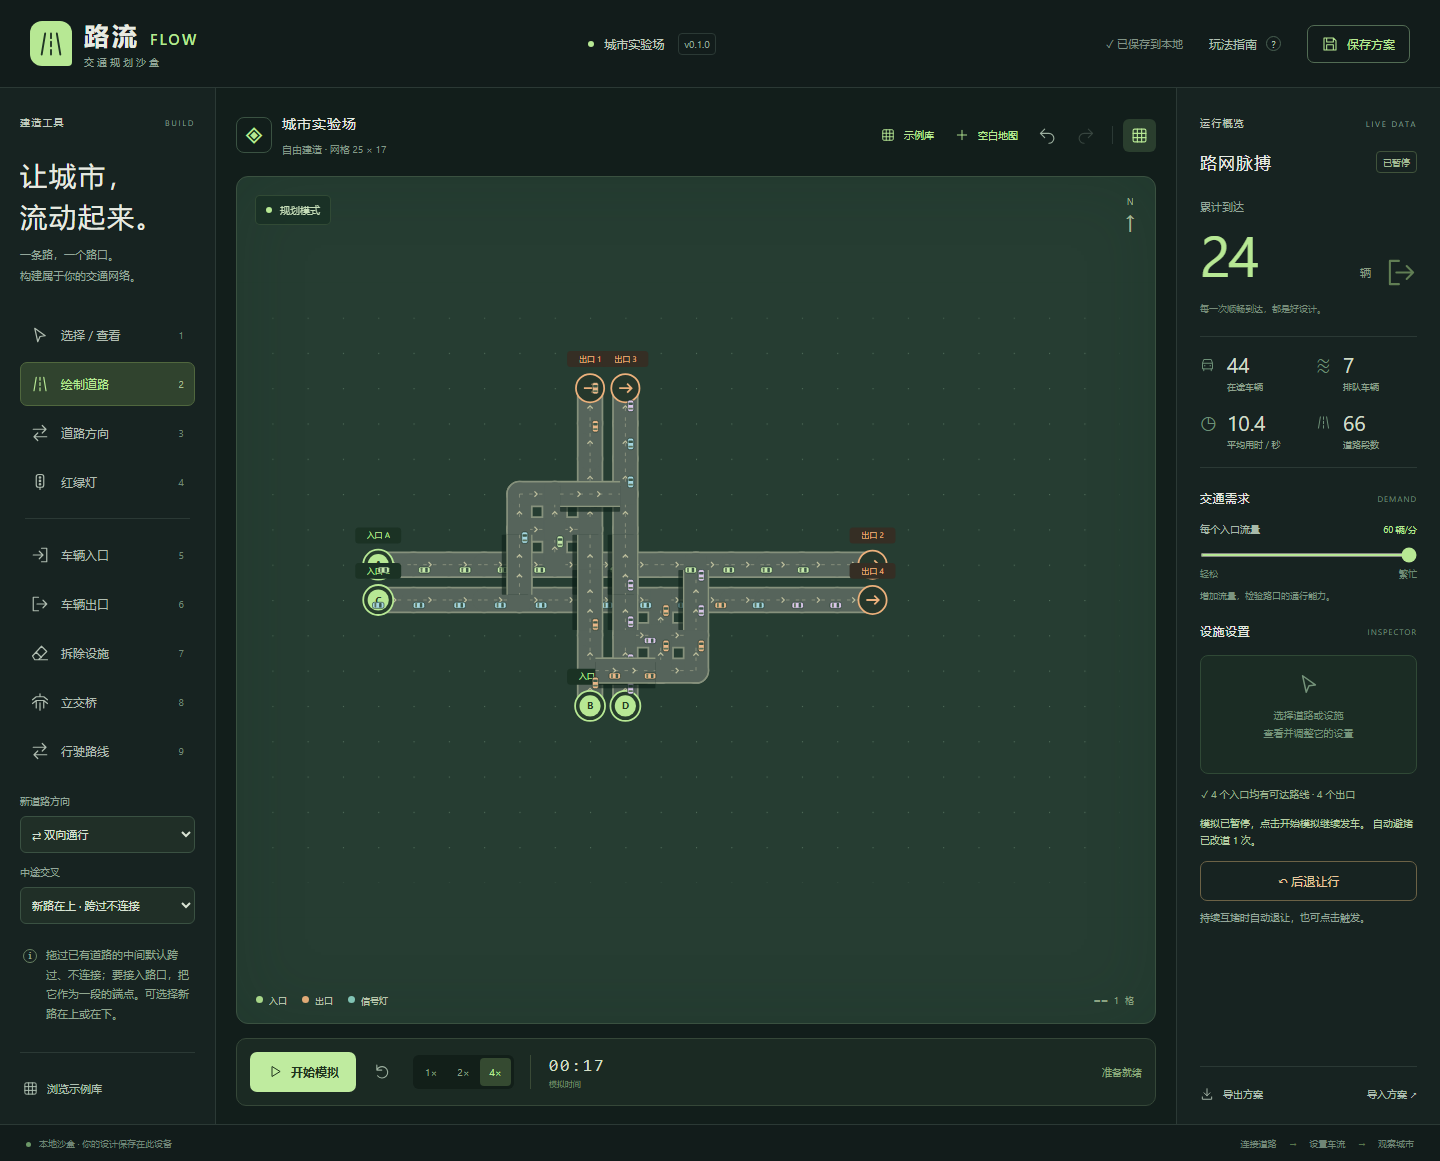
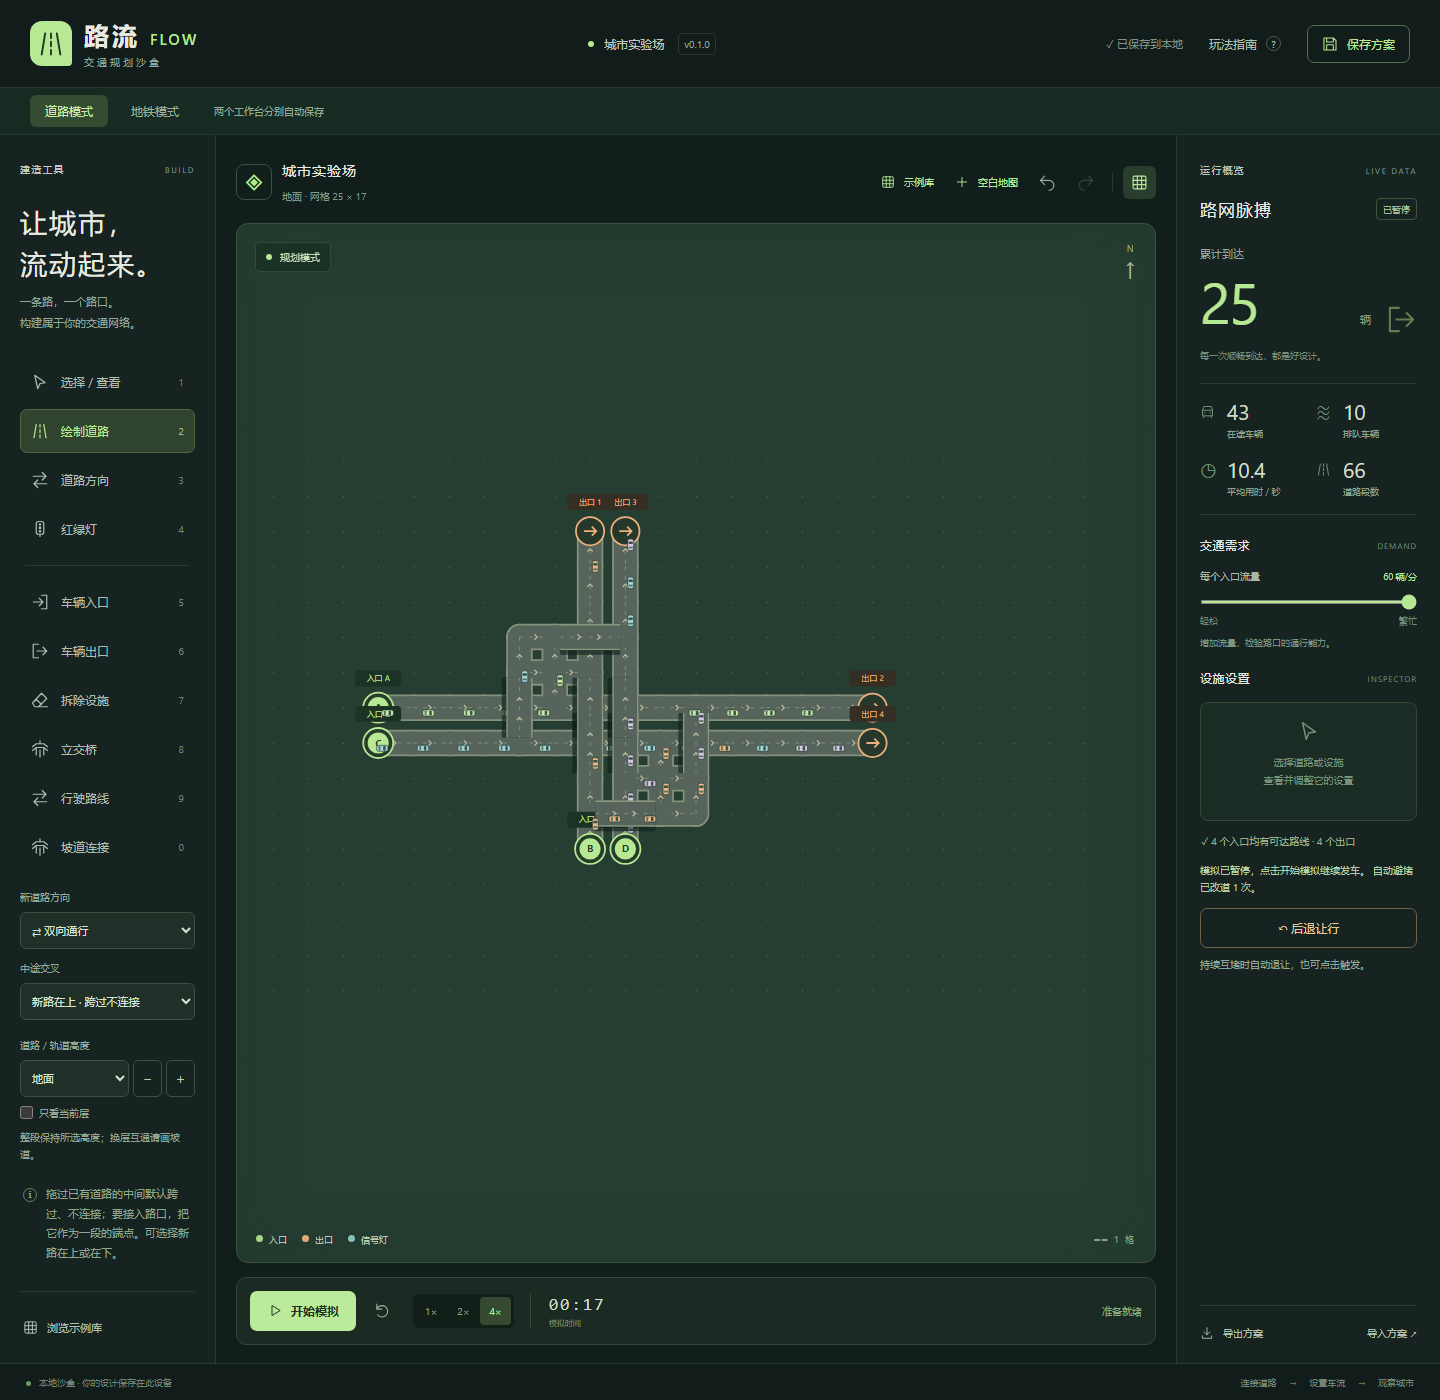
docs: record verified metro and stacked-road behavior

diff --git a/README.md b/README.md
@@ -23,6 +23,20 @@ node scripts/serve.js
 8. 画路时，中途跨过已有道路默认不连接；可选新路在上、新路在下或连接路口。要接入交叉点，分段绘制，把交叉点作为一段的端点。
 9. 行驶路线工具（9）：先点击入口，再按顺序逐段点击道路，最后点击出口。车会严格沿这条路线前进。入口设置可「添加另一条路线」，也可为同一出口画不同途经路线；点击列表单独预览，点右侧 × 仅删除这一条，支持撤销/重做。车辆在候选路线间随机分流；删除最后一条后该入口恢复自动避堵。
 
+## 连续高度与叠路
+
+左侧「道路 / 轨道高度」选择地面、高架或地下层，支持地下八层至高架八层。整段道路保持所选高度；不同层有各自的路段和车辆，同向完全重叠也不会合并。使用「新路在上 / 在下」覆盖本层平行路时，整段新路自动放到独立的上层 / 下层，原路保留；「连接中途路口」用于修改和接通本层。旧式局部跨线的端点连接规则继续兼容。
+
+上层路面会遮住正下方的道路及车辆，下层仍正常运行。勾选「只看当前层」即可检查和编辑被遮住的道路。坡道工具（0）：先点起点，切到相邻高度，再点终点；只有显式坡道才会接通不同层。切层不会暂停或重置车流。
+
+## 地铁模式
+
+顶部可切换道路 / 地铁工作台，两种设计分别自动保存。地铁轨道默认双向，使用「设置站台」放站台，同一站台同时作为入口和出口。列车总数严格为 **⌊站台总数 ÷ 3⌋**：两站为零列、三站一列、六站两列、八站两列、九站三列；空间不足的编组在库等待，不额外生成列车。默认每列六节车厢，可在列车配置中调整编组，列车总数仍按站台计算。
+
+用「地铁线路（9）」点击起始站台，再按顺序点击途经节点、站台和终点，最后点击右侧「完成线路」。中途点到站台不会提前结束绘制。列车沿手画线路逐站停靠两秒，到两个终点后折返。断线、单向无法折返或线路短到放不下编组时，会提示修复。坡道可接通不同层轨道；无坡道的不同层互不转入。
+
+地铁示例库提供六站往返线（两列六节列车）和双层跨线（十二站、四列）。运行面板显示累计停站、在线列车和平均站间用时；同向列车按整列长度保持间距，车尾离开后才释放交叉路口。
+
 编辑会暂停并重置车辆和统计，保留路网。Ctrl+Z 撤销，Ctrl+Shift+Z 重做；1–9 切换工具。地图内方向键移动，Enter/空格操作。空白处空格开始/暂停，Escape 取消连线。
 
 设计自动保存到当前浏览器/设备。JSON 导出可用于备份和迁移，导入会验证数据。隐私模式或存储受限时请使用导出。
@@ -36,7 +50,7 @@ node scripts/serve.js
 未指定行驶路线时，车辆先随机选择可达出口，再按剩余路程、车道排队和预计红灯等待比较时间。行驶途中也会在路口前重算尚未走过的部分，保持原出口，不掉头、不逆行、不跨层转弯；只有明显更快才改道，并有冷却以减少反复切换。运行提示显示实际自动改道次数。手画的指定路线始终严格执行，不会被自动避堵覆盖。
 
 ## 验证
-`node --test`；`node scripts/build.js` 构建后启动服务，再执行 `node scripts/browser-check.js` 运行浏览器检查（需 playwright@1.62.1，可通过 PLAYWRIGHT_MODULE 指定已有模块）。真实浏览器交互结果见 `doc/第一版本测试报告.md`。
+`node --test`；`node scripts/build.js` 构建后启动服务，再执行 `node scripts/browser-check.js` 运行浏览器检查（需 playwright@1.62.1，可通过 PLAYWRIGHT_MODULE 指定已有模块）。新地铁与层级场景也可单独执行 `node scripts/check-metro-layers.js`。最新本机验证见 [地铁与多层道路测试报告](doc/地铁与多层道路测试报告.md)，初版发行验证保留在 `doc/第一版本测试报告.md`。
 
 这是自由沙盒，不设预算或通关条件；车辆使用简化的排队与路口互斥模型，非工程交通预测。
 
@@ -44,4 +58,4 @@ node scripts/serve.js
 通过 game-hub v0.4.0 及以上版本的「立即检查」→「游戏目录」安装「路流 · 交通规划」。游戏 ID 为 `traffic-planner`，存储合同为 `traffic-planner-dynamic-v1`。原生导出使用大厅文件保存桥，普通浏览器使用 JSON 下载。浏览器不同 origin（包括 localhost、127.0.0.1 和 file）拥有独立存档，可用导出/导入迁移。发布状态见 [接入记录](doc/发布与大厅接入计划.md)。
 
 ## 项目结构与许可
-`src/` 为路网、仿真、倒车让行、案例和界面；`tests/` 为 Node 回归；`scripts/` 为构建、八文件产物核验及浏览器验收；`dist/` 为固定运行资源。源码按 [MIT](LICENSE) 许可发布，不包含第三方运行库。Node 与 Playwright 仅用于开发和验证，静态应用不发布到 npm。
+`src/` 为路网、道路仿真、地铁仿真、按层渲染、倒车让行、案例和界面；`tests/` 为 Node 回归；`scripts/` 为构建、十文件产物核验及浏览器验收；`dist/` 为固定运行资源。源码按 [MIT](LICENSE) 许可发布，不包含第三方运行库。Node 与 Playwright 仅用于开发和验证，静态应用不发布到 npm。

diff --git a/doc/地铁与多层道路测试报告.md b/doc/地铁与多层道路测试报告.md
@@ -1,0 +1,49 @@
+# 地铁与多层道路测试报告
+
+- 日期：2026-10-27，Asia/Shanghai。
+- 范围：本机功能实现与验证，发行身份仍为公开的 0.1.0；本轮未推送新代码、发布大厅资源或制作 APK。
+- 实现：7734a81（层级与坡道模型）、d4067b8（地铁仿真）、cf53018（工作台与按层渲染）。
+- 结果：**101 项 Node 测试通过，64 项 Chromium 检查通过，0 失败，浏览器错误 0**。
+
+## 对照用户要求
+
+| 要求 | 实际行为与证据 |
+| --- | --- |
+| 同向重叠的道路不能合并消失 | 高度成为独立节点身份；实际连续叠画三条相同方向道路，存档保留 48 段独立路，三条均有各自路径与车流；L01 |
+| 上层要一直在上方 | 整段选择同一高度，延长上层后仍在上层，未将新段接回地面；L02 |
+| 下层车只被遮挡，不能融入上层 | 完整路面和车体按高度排序；高层路面在低层车辆之后绘制，切到地面单独显示后下层道路和车仍在；L03/L04 |
+| 能在高架上再加一层 | 地面、地下八层至高架八层都可独立画路，坡道显式接相邻层；L01/L05 |
+| 站台同时是入口和出口 | 地铁模式 sources/exits 都与 stations 一致，图中每站只画一个站台标记；M01 |
+| 默认六节编组 | 实际两列车各六节，共十二节独立沿轨迹绘制；M02 |
+| 列车数按站台数除三取整 | 模型覆盖 0、1、2、3、6、8、9 站；界面两站为零列，新增第三站即一列，六站两列，十二站四列；M01/M06 |
+| 手画线路、逐站停靠和终点折返 | 中间站不提前结束施工，完成线路后列车实际停车并折返，存档路线未改变；M02/M03 |
+| 两个工作台各自保留设计 | 切换、刷新及跨模式导入/撤销/重做保留各自地图；M05/M07 |
+| 手机可使用 | 390×844 高度选择、单层查看、模式按钮、站台与线路施工、触摸输入及无横向溢出通过；L06/M05/M08 |
+
+## 实际命令与输出
+
+- 开发前新增层级测试，旧代码五项失败（无法保存层级节点、没有坡道 API）。新增地铁测试，旧代码六项失败（站台 API、列车数和地铁仿真缺失）。完成后新增层级六项、地铁八项、渲染三项及两个地铁案例均通过。
+- `node --test`：101 通过、0 失败、0 跳过，实际用时约 117.6 秒。完整输出 `evidence/metro-layers-node-results.txt`。包含原有拥堵十分钟持续运行、随机出口、手画路线、途中避堵、倒车、红灯和旧桥层回归。
+- `node scripts/build.js`：10 个离线文件构建成功。
+- `node scripts/check-dist.js`：精确文件清单、逐字节源码一致性、版本和 MIT 许可全部通过；新增 metro-simulation 与 layer-renderer 已纳入资源清单。
+- `node --check src/app.js`、`node --check src/layer-renderer.js`、`node --check scripts/check-metro-layers.js`、`git diff --check`：通过。
+- 配置 `FLOW_BASE_URL=http://localhost:4267` 和 `PLAYWRIGHT_MODULE` 后执行 `node scripts/browser-check.js`：64 项通过、0 失败，Chromium 151.0.7922.34，浏览器错误 0。结果 `evidence/browser-results.json`。
+- 新增独立脚本 `node scripts/check-metro-layers.js`，本轮完整回归已调用它的 14 项场景；独立结果 `evidence/metro-layers-browser-results.json`。此前跨模式检查中一次测试选择器同时匹配 body 与按钮，已限定按钮选择器并完整重跑通过，未弱化操作或结果断言。
+
+## 领域边界检查
+
+三层同坐标路网互不串线、单向约束、地面/地下往返存档、逐层删除、明确坡道与下层保留均通过。新道路的整段高度按绘图模式选择；只有连接模式或显式坡道建立对应连接，图形重合不会自动合并图节点。
+
+地铁按实际六节长度计算跟车与出库空间，覆盖跨网格的整列间距；同层交叉口在车尾驶离之前仍由该列车持有。两个方向使用各自轨道，可对向通过；终点折返前检查新方向空间。短于当前编组、断线或无法反向通行的线路不会自动改成别的路线。固定列车池包含在线及待出库车辆，重复运行和重置不增加车数。坡道列车六节各自沿真实高度轨迹移动，所有站台继续服务。
+
+旧 v1 地面图和原局部双层跨线保持兼容，新高度节点使用 x,y@层号；新图需要新版读取。当前模式分别使用 flow-traffic-layout-v1、flow-metro-layout-v1，另以 flow-active-mode-v1 记忆工作台；其它存储项未清理或覆盖。用户原页面和存档未被测试脚本改动，浏览器场景均在独立上下文内执行。
+
+## 视觉证据
+
+- `evidence/layers-desktop.png`：三层同向道路和三股独立车流，当前高架二层，上层连续延长。
+- `evidence/layers-ground-desktop.png`：单独查看地面，证明下层道路与车辆仍存在。
+- `evidence/layers-mobile.png`：手机高度选择与单层编辑。
+- `evidence/metro-desktop.png`：六站线、两列六节编组、累计停站及独立工作台。
+- `evidence/metro-mobile.png`：十二站双层示例、四列车、公式与手机控制。
+
+本地服务已在 4267 启动并实际返回 HTTP 200；最终浏览器回归也通过该服务访问了全部十个运行文件。

diff --git a/doc/地铁与多层道路实施计划.md b/doc/地铁与多层道路实施计划.md
@@ -23,7 +23,7 @@
 - **Definition of Done**：构建和 `node scripts/check-dist.js` 通过；独立浏览器真实绘制三层路和六站线、运行列车，保存/撤销/手机显示通过。
 - **Files**：src/app.js、src/core.js、src/layer-renderer.js、src/examples.js、index.html、styles.css、game-hub.integration.json、tests/layer-renderer.test.js、tests/layers.test.js、tests/examples.test.js、scripts/check-metro-layers.js、scripts/browser-check.js、dist/。
 
-## L4 全量回归与交付证据 `[PENDING]`
+## L4 全量回归与交付证据 `[COMPLETE]`
 - **Objective**：保留原交通玩法，记录完整测试、截图及兼容范围。
 - **Definition of Done**：`node --test`、构建、产物核验和 Chromium 全量回归通过，测试报告给出实际数字及桌面/手机证据。
 - **Files**：doc/地铁与多层道路测试报告.md、doc/evidence/、README.md、CHANGELOG.md。

diff --git a/CHANGELOG.md b/CHANGELOG.md
@@ -2,6 +2,9 @@
 
 ## 未发布
 
+- 加入独立地铁工作台：站台同时收发，列车数为站台数除三向下取整，默认六节车厢，沿手画线逐站停靠并在终点折返；两种模式分别保存，含六站线及双层地铁示例。
+- 道路与轨道增加持久高度和显式坡道。同向重叠道路保留为独立层，新路可整段放到上方或下方，支持第三层及更多层；按高度遮挡车辆，并可单独查看、编辑当前层。
+
 - 增加原路慢速后退让行：持续堵住路口时自动退让，也可点击按钮触发；检查倒车通道和后方车距，释放路口后让其它车先过，再沿原路线继续。
 
 - 修复每段多车、队尾持有路口时的环形互堵，按实际空间协调车队腾位；入口让已预约的过路车先行，运行提示显示疏通次数。
